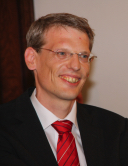
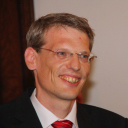
Some adjustments
Adjusted Sebastian picture
Adjusted the size of the OW2 logo

diff --git a/content/2020/december/_index.md b/content/2020/december/_index.md
@@ -32,24 +32,19 @@ Through a selection of state-of-the-art project presentations and demonstrations
 
 {{< grid/section-container id="organizing-committee" class="featured-section-row featured-section-row-lighter-bg text-center" isMarkdown="true">}}
 
-## Organizing Committee 
-
-### Publicity  
-Susan Iwai, Eclipse Foundation 
+## Co-organized by: 
 {{</ grid/section-container >}}
 
 {{< grid/section-container id="organizing-orgs" class="featured-section-row featured-section-row-lighter-bg text-center">}}
 {{< grid/div class="row" isMarkdown="false">}}
 
 {{< grid/div class="col-md-8 padding-bottom-20" isMarkdown="true">}}
-  #### **Co-organized by:**
   
   [![Eclipse Research](images/eclipse_logo.png)](http://eclipse.org/research)
 {{</ grid/div >}}
  
 
 {{< grid/div class="col-md-8 padding-bottom-20" isMarkdown="true">}}
-  #### **Co-organized by:**
   
   [![OW2](images/ow2.png)](https://www.ow2.org/)
 {{</ grid/div >}}
